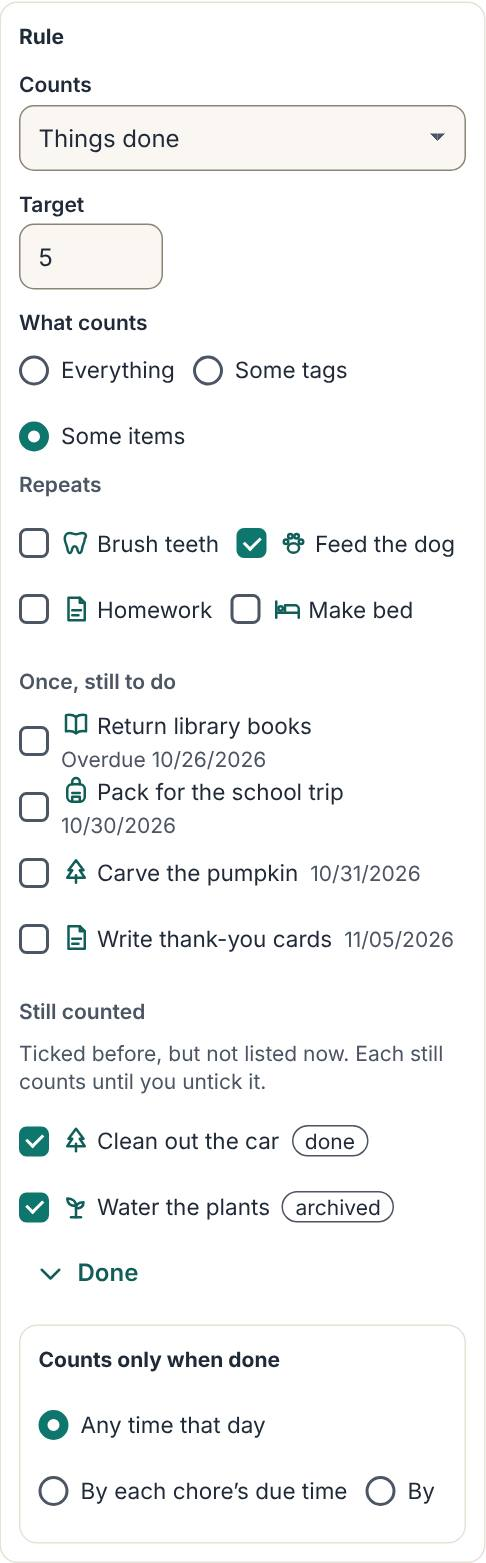
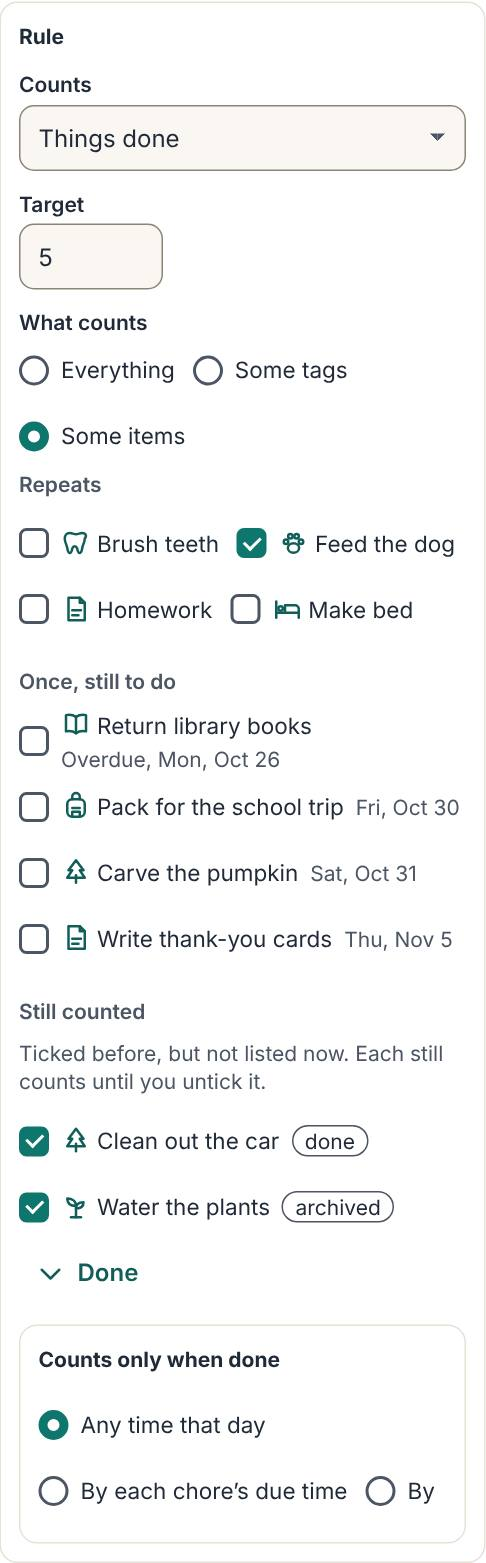
[RWD-21] WP-114: a one-time item's day in the app's style, "Fri, Oct 30"
The owner's choice with the approval, on the planner's recommendation (D-128):
"Fri, Oct 30" and "Overdue, Mon, Oct 26", the year only when it isn't this
year's, rather than mm/dd/yyyy.

Claude-Session: https://claude.ai/code/session_019Ro1JkMZ3zNVvDXiNc1xF9

diff --git a/apps/web/lib/goal-items.ts b/apps/web/lib/goal-items.ts
@@ -2,7 +2,7 @@
 // that can still count, items that repeat first, then one-time items still to do; and every item the
 // goal already counts, kept and flagged with why it isn't listed, so a goal never loses an item.
 // Dates are household-local "YYYY-MM-DD" calendar dates.
-import type { IconName } from '@familywise/ui';
+import { dateWords, type IconName } from '@familywise/ui';
 import type { Section } from './chore-sections';
 
 /** Why a one-time item is over (WP-96's Completed), or archived. */
@@ -37,7 +37,7 @@ export interface ItemsFor {
 
 export interface ItemChoice {
   item: GoalItem;
-  /** A one-time item's day, as the mockup writes it: "10/30/2026", "Overdue 10/26/2026". */
+  /** A one-time item's day, as the app writes it: "Fri, Oct 30", "Overdue, Mon, Oct 26". */
   when?: string;
   /** Still counted only: why it isn't listed ("done", "not for Maya", "after the goal ends"). */
   flags?: string[];
@@ -60,10 +60,13 @@ export function overFrom(
   return null;
 }
 
-/** "2026-10-30" → "10/30/2026" (the owner's choice for the mockup, 27 October). */
-export function shortDate(day: string): string {
-  const [y, m, d] = day.split('-');
-  return `${m}/${d}/${y}`;
+/**
+ * [NFR-16][D-128] A day as the app writes it, "Fri, Oct 30", with its year only when it isn't this
+ * year's ("Tue, Jan 5, 2027"): the owner's choice on 27 October, over mm/dd/yyyy.
+ */
+export function shortDate(day: string, today: string): string {
+  const words = dateWords(day);
+  return day.slice(0, 4) === today.slice(0, 4) ? words.replace(/, \d{4}$/, '') : words;
 }
 
 /**
@@ -97,8 +100,8 @@ const when = (item: GoalItem, today: string) =>
   item.repeats || !item.day
     ? undefined
     : item.day < today
-      ? `Overdue ${shortDate(item.day)}`
-      : shortDate(item.day);
+      ? `Overdue, ${shortDate(item.day, today)}`
+      : shortDate(item.day, today);
 
 /**
  * [RWD-21][D-146] The rule's Some items in three groups: Repeats (by name), Once, still to do (by

diff --git a/e2e/ui/goal-items.spec.ts b/e2e/ui/goal-items.spec.ts
@@ -34,10 +34,10 @@ test('[RWD-21-f] a done and an archived item the goal counts stay ticked under S
     'Homework',
     'Make bed',
     'Once, still to do',
-    'Return library books Overdue 10/26/2026',
-    'Pack for the school trip 10/30/2026',
-    'Carve the pumpkin 10/31/2026',
-    'Write thank-you cards 11/05/2026',
+    'Return library books Overdue, Mon, Oct 26',
+    'Pack for the school trip Fri, Oct 30',
+    'Carve the pumpkin Sat, Oct 31',
+    'Write thank-you cards Thu, Nov 5',
     'Still counted',
     'Clean out the car done',
     'Water the plants archived',
@@ -62,7 +62,7 @@ test('[RWD-21-g] changing Leo to Maya flags Feed the dog "not for Maya", still t
       'Read 20 minutes',
       'Set the table',
       'Once, still to do',
-      'Try on the costume 10/31/2026',
+      'Try on the costume Sat, Oct 31',
       'Still counted',
       'Feed the dog not for Maya',
     ]);
@@ -101,8 +101,8 @@ test('[RWD-21-j] a goal ending Oct 29 lists no chore after it; a ticked one is k
   await page.goto('/dev/goals?form=items-dates');
   await hydrated(page);
   const all = await lines(page);
-  expect(all).not.toContain('Pack for the school trip 10/30/2026');
-  expect(all).toContain('Write thank-you cards 11/05/2026');
+  expect(all).not.toContain('Pack for the school trip Fri, Oct 30');
+  expect(all).toContain('Write thank-you cards Thu, Nov 5');
   await expect(
     page.getByRole('checkbox', { name: 'Carve the pumpkin after the goal ends' }),
   ).toBeChecked();

diff --git a/apps/web/lib/goal-items.test.ts b/apps/web/lib/goal-items.test.ts
@@ -93,10 +93,10 @@ describe('[RWD-21] the goal form’s Some items', () => {
   it('[RWD-21-c] lists a one-time item still to do, Overdue included, with its day', () => {
     const g = itemGroups(ALL, forLeo, []);
     expect(g.once.map((c) => [c.item.title, c.when])).toEqual([
-      ['Return library books', 'Overdue 10/26/2026'],
-      ['Pack for the school trip', '10/30/2026'],
+      ['Return library books', 'Overdue, Mon, Oct 26'],
+      ['Pack for the school trip', 'Fri, Oct 30'],
     ]);
-    expect(shortDate('2027-01-05')).toBe('01/05/2027');
+    expect(shortDate('2027-01-05', TODAY)).toBe('Tue, Jan 5, 2027');
   });
 
   it('[RWD-21-d] lists an item that repeats under Repeats, with no day, before the one-time items', () => {

diff --git a/docs/00-README.md b/docs/00-README.md
@@ -168,7 +168,7 @@ Source of truth for IDs is `04`. CI runs `python3 docs/check_traceability.py --d
 | D-143 | **The e2e reds of 18 to 21 October: where a slow run's time goes (WP-113), 21 October, confirmed by the owner the same day.** Added at the owner's request ("start the e2e fix for #152 to #158 and #146"). Claude Code's choices: (1) **The board's read is made cheaper, not its budget looser.** `board_snapshot()` timed out (8 s) in 7 of the e2e runs 244 to 256 while trivial queries answered; two thirds of its time was `lunch_week()` working out each child's day several times (112 day types for a week of two children, not 14). It now works each out once, with the same answer field for field; on a local copy the snapshot takes 28 to 35 ms, not 66 to 80. This changes production too, for the better. The 3 s and 5 s budgets are unchanged (D-135). `school_days()` (about 13 ms of the rest, under RLS as the board) is left as it is. (2) **The run sees the preview's own way to the database.** A preview-only `GET /api/health/db` times one call to `public.db_probe()`; the run reads it every 15 s, and over 2 s or failing is a bad probe reading, so a test that failed while it was read is infrastructure and re-runs once (as D-129 and D-135's readings). A slow probe of the database says how much of it was the database's own time. (3) **A failed test names what it was still waiting for** (a page load or a save), in its cause; on its own that is no evidence of infrastructure and never re-runs it. (4) **The schedule stays as D-108 set it.** The scheduled runs start 4.5 to 7.5 hours after 07:17 UTC because GitHub queues them late (each run's first job starts seconds after GitHub creates it); the runs started by hand at night were no quieter (run 251 at 03:33 UTC had the snapshot timeouts too), so the late start isn't shown to make the test database busier, and no change is proposed. |
 | D-144 | **Rewards and Members folded, as built (WP-95), 22 October, confirmed by the owner the same day.** Built from the fold audit's Rewards and Members frames the owner approved on 16 October (D-120); Goals' part was done with WP-80 (D-123). Claude Code's choices: (1) a bonus has no name of its own, so **Bonus points**' header names each one on by its kind and points ("7 days in a row +20", "Perfect day +5"), where the frame drew made-up names. (2) **Lately** lists the requests newest settled first (it was newest asked first), so its header's "Last:" is the one settled last, with its day and how many the list holds (up to ten). (3) A member's **Change points** is a fold inside **Points**, folded to its button, as the frame's **Change points** button draws it; after a change, **Points** and **Change points** come back open, for the next one; the form's own heading reads **Add or take away**. (4) After an archive, **Members** comes back with **Archived** open, and **Rewards** with the shop's **Archived** or **Archived bonuses** open, as WP-94 does. (5) Each member's row is the avatar, the name, and its facts under the name, as the frame draws it (the avatar sat on a line of its own on a phone). (6) **Add a reward** moves under the shop's list, as the frame draws it. (7) NFR-18 has no case letters left, so WP-95's test cases are under the requirements whose screens it folds (PTS-01, PTS-03, PTS-04, PTS-05, ACC-04, RWD-09), which join its Reqs line. (8) At the owner's request after the side-by-side ("fix them first", 22 October), the parts around the folds follow the frames too: Rewards' title above the cards and **Asked for** marked in amber while something waits; each request led by the child's avatar, its buttons beside it (stacked at the right, without icons, on a phone); Members' title and **Add a member** above the list; a member's page with **‹ Members** and the name above the form's card; and the shop's archived rewards each with **Put back** (which comes back with **Archived** open). A member's form stays the full form: the frame drew a shortened one. |
 | D-145 | **Today, My tasks and Insights folded, as built (WP-97), 23 October, confirmed by the owner the same day.** Built from the fold audit's Today, My tasks and Insights frames the owner approved on 16 October (D-120). **The owner's choice (23 October, in this item's session):** when a parent marks the last open item of a part of the day done, the part stays open with its count ("6 of 6 done") and folds the next time Today is opened, not under their finger, so **Uncheck** stays where it was. Claude Code's choices, confirmed by the owner with the approval: (1) a part's count is done or skipped; sent back, waiting for a parent and missed are not, and keep the part open. (2) "The next load" is the next time Today is opened, not the page coming back from a save: the part holding the item a parent just changed (marked done, unchecked, skipped, put back, approved, sent back) stays open; **Undo** after **Not actually done** puts items back done, and their parts are folded on the page it comes back to. (3) An open part shows its count on its header ("1 of 4 done"), where the frame drew none on the open After school; a part with everything done has a tick on its header, open or closed. (4) A done part's folded line names its first three items, each name once (Make bed for two children is one name), then "and N more". (5) Today's title is the day in words above the cards (Today, Yesterday, Tomorrow, else the date), and the day's card is headed by the date in full ("Friday, October 16"); **Waiting for you** is marked in amber, as Rewards' **Asked for**. (6) My tasks: its title and reminders line above the cards; **Overdue** and **Today** each a card; **Coming up** folds to "N in the next 7 days · next: name, day time", or "Nothing in the next 7 days". (7) Insights' title, members and ranges above the cards. Its folded findings: **Day by day**, the best and lowest weekday by what was done of what was done or missed ("Best: Sundays, 100% · lowest: Tuesdays, 40%"), the first in the household's week on a tie, "Every day alike" when all are equal; **Missed most**, the one missed most; **By tag**, up to three tags, most done first, then "and N more"; **Checking**, how many a parent checked and sent back while check-offs wait for a parent, else the check-offs and how many a parent unchecked; **History** folded to **Rebuild from history**, open after a rebuild. Opened, **Day by day** is the calendar of days as before (the frame drew a bar chart). (8) Checking's help line now says the approval switch is in Settings, Family options (D-84), not on Home. |
-| D-146 | **A goal's Some items: only what can still count, for the goal's person, and nothing it counts dropped (WP-114), 27 October, from the mockup the owner approved that day, to confirm.** Added at the owner's request, as a bug: the goal form's **Some items** listed every item in the household but the archived, one-time items already done included, whoever they were for. From the planner's recommendation the owner chose: only items for who the goal is for (an item's people): that child, or for the whole family any child who earns rewards; items that repeat, under **Repeats**, then one-time items still to do (WP-96's Scheduled, Overdue included), under **Once, still to do**, each with its day; one-time items done, skipped or missed, and archived items, are left out (one-time items still to do stay, rather than only items that repeat as the owner first suggested, so a one-off push such as "Pack for the school trip" can still be a goal). An item a goal already counts is never dropped: it stays ticked under **Still counted**, flagged with why it isn't listed (done, missed, skipped, archived, "not for Maya", "not for a child"), and is saved unless unticked; the same when who the goal is for changes after items are ticked. The server keeps accepting every item id it accepts now. Within the goal's dates (the planner's addition, Q3 on the mockup): a one-time chore is listed only if its day is within them, since a chore counts on its own day; a one-time task can be done any time and counts on the day it is done (D-31, D-52), so every task still to do is listed with its day, whatever the day; a chore outside the dates after a change is flagged in **Still counted** ("after the goal ends", "before it starts"), never dropped. Proposed by Claude Code for the mockup: the group names and the flags; the owner chose to keep **Still counted** and to write a one-time item's day as mm/dd/yyyy ("10/30/2026", "Overdue 10/26/2026") to save space. A kept item shows why, not its day. |
+| D-146 | **A goal's Some items: only what can still count, for the goal's person, and nothing it counts dropped (WP-114), 27 October, from the mockup the owner approved that day, to confirm.** Added at the owner's request, as a bug: the goal form's **Some items** listed every item in the household but the archived, one-time items already done included, whoever they were for. From the planner's recommendation the owner chose: only items for who the goal is for (an item's people): that child, or for the whole family any child who earns rewards; items that repeat, under **Repeats**, then one-time items still to do (WP-96's Scheduled, Overdue included), under **Once, still to do**, each with its day; one-time items done, skipped or missed, and archived items, are left out (one-time items still to do stay, rather than only items that repeat as the owner first suggested, so a one-off push such as "Pack for the school trip" can still be a goal). An item a goal already counts is never dropped: it stays ticked under **Still counted**, flagged with why it isn't listed (done, missed, skipped, archived, "not for Maya", "not for a child"), and is saved unless unticked; the same when who the goal is for changes after items are ticked. The server keeps accepting every item id it accepts now. Within the goal's dates (the planner's addition, Q3 on the mockup): a one-time chore is listed only if its day is within them, since a chore counts on its own day; a one-time task can be done any time and counts on the day it is done (D-31, D-52), so every task still to do is listed with its day, whatever the day; a chore outside the dates after a change is flagged in **Still counted** ("after the goal ends", "before it starts"), never dropped. Proposed by Claude Code for the mockup: the group names and the flags; the owner chose to keep **Still counted**, and a one-time item's day written as the app writes dates (D-128), "Fri, Oct 30" and "Overdue, Mon, Oct 26", with the year only when it isn't this year's (the owner first chose mm/dd/yyyy to save space, then the app's style on the planner's recommendation, with the approval). A kept item shows why, not its day. |
 
 ## Repo layout
 

diff --git a/docs/05-backlog.md b/docs/05-backlog.md
@@ -1,7 +1,7 @@
 # 05 — Backlog
 
 > Version 0.8 · Status: build baseline · Maintained by Claude Code
-> v0.8.161: WP-114 (a goal's Some items lists only what can still count, for the goal's person) added at the owner's request, as a bug, and done in the same change (RWD-21, D-146), from the mockup the owner approved on 27 October ([Goal Items Mockup](https://claude.ai/artifact/PSkoJydKQT4Gfzv1MUxEaV)): only the goal's person's items (every child's for a family goal) that repeat, then one-time items still to do with their day (mm/dd/yyyy), a one-time chore only within the goal's dates; every item a goal counts kept under Still counted, flagged. Its test cases are RWD-21-a to RWD-21-j.
+> v0.8.161: WP-114 (a goal's Some items lists only what can still count, for the goal's person) added at the owner's request, as a bug, and done in the same change (RWD-21, D-146), from the mockup the owner approved on 27 October ([Goal Items Mockup](https://claude.ai/artifact/PSkoJydKQT4Gfzv1MUxEaV)): only the goal's person's items (every child's for a family goal) that repeat, then one-time items still to do with their day ("Fri, Oct 30"), a one-time chore only within the goal's dates; every item a goal counts kept under Still counted, flagged. Its test cases are RWD-21-a to RWD-21-j.
 > v0.8.160: WP-97 (Today, My tasks and Insights folded) done (NFR-18, CHR-12, CHR-14, RWD-12, D-120, D-145), from the fold audit's frames the owner approved on 16 October, with the owner's answer of 23 October: a part of the day with everything done or skipped folds to its count and first names the next time Today opens, and the part a parent just finished stays open with its count. My tasks' Coming up and Insights' Day by day, Missed most, By tag, Checking and History fold to what they hold. The Done when's preview line follows that answer: the part is open with its count after the tap, and folded on the next load. Its test cases are CHR-12-a to CHR-12-d, CHR-14-a, CHR-14-b, RWD-12-a and RWD-12-b, and those requirements join its Reqs line. D-145 confirmed by the owner in this item's session. That ends the fold audit's work packages (WP-91, WP-93 to WP-97).
 > v0.8.159: WP-95 (Rewards, Goals and Members folded) done (NFR-18, PTS-01, PTS-03, PTS-04, PTS-05, ACC-04, RWD-09, D-120, D-144), from the fold audit's Rewards and Members frames the owner approved on 16 October: the shop's Archived, Bonus points (Add a bonus and Archived bonuses inside), Lately, Members' Archived, a member's Points (Change points inside) and Archive folded, each to what it holds; a save comes back with its fold open; at the owner's request, the page parts around the folds follow the frames too. NFR-18's case letters were used up by WP-94 and WP-96, so its cases are PTS-01-a and -b, PTS-03-a and -b, PTS-04-b, PTS-05-a, ACC-04-a and -b and RWD-09-a, and those requirements join its Reqs line. Its Goals part was done with WP-80 (D-123); RWD-09-a adds the preview test of "needs a look" on Goals' folded History.
 > v0.8.158: WP-113 (the e2e reds of 18 to 21 October) added at the owner's request and done in the same change (DEV-05, NFR-12, MEAL-19, D-143): `meal-groceries.spec.ts` was the spec's own bug, red in every run, and WP-105's merge is right; the board's snapshot timed out under the run because `lunch_week()` worked out each child's day up to eight times, now once, with the same answer (the snapshot 66 to 80 ms → 28 to 35 ms on a local copy); the five one-off reds were saves and page loads the preview never answered within their waits, none of them date-dependent, and a run now sees the preview's own way to the test database and names what a failed test was waiting for. The scheduled runs start late because GitHub queues them late; no change to D-108's schedule. Its test cases are DEV-05-a, DEV-05-b and NFR-12-a to NFR-12-e. D-143 confirmed by the owner in this item's session.
@@ -1991,7 +1991,7 @@ flowchart LR
 - Added at the owner's request on 27 October, as a bug, in the planner session: "When creating a goal and selecting specific things that count towards that goal all chores and tasks are displayed, even ones completed/archived. I'd expect only the active tasks and those that are relevant to the person(s) selected for the goal. I'd argue that only recurring tasks be available for selection." The owner then chose the planner's recommendation: "fix the goal items bug, as recommended". On `main` the goal form's **Some items** leaves out archived items only: it lists one-time items already done or missed (WP-96's Completed), and every item in the household, whoever it is for. An item an existing goal counts that is archived since isn't on the form at all, so saving the goal drops it without a word.
 - **What it lists (D-146):** only items for who the goal is for (an item's people): that child, or for the whole family any child who earns rewards. Items that repeat first, under **Repeats**; then one-time items still to do (WP-96's Scheduled, Overdue included), under **Once, still to do**, each with its day. One-time items done, skipped or missed, and archived items, are left out. Within the goal's dates: a one-time chore only if its day is within them (a chore counts on its day); every one-time task still to do, whatever its day (a task can be done any time and counts the day it is done, D-31, D-52).
 - **Nothing a goal counts is dropped:** an item a goal already counts stays ticked, under **Still counted**, flagged with why it isn't listed (done, missed, skipped, archived, "not for Maya", "not for a child", "after the goal ends", "before it starts"). Changing who the goal is for after ticking items moves the ones that no longer apply there, flagged, still ticked; saving keeps them unless the parent unticks them. An item unticked there stays on the form until the page is left, so a slip can be undone. The server keeps accepting every item id it accepts now. The live summaries and Preview name every item the goal counts, listed or not.
-- **Mockup:** [Goal Items Mockup](https://claude.ai/artifact/PSkoJydKQT4Gfzv1MUxEaV), on the demo family, iPhone at 390 px and the laptop, Day and Evening; approved by the owner on 27 October with three answers: keep **Still counted**; a one-time item's day written mm/dd/yyyy ("10/30/2026", the owner's, to save space); and the goal's dates as the planner recommended (Q3).
+- **Mockup:** [Goal Items Mockup](https://claude.ai/artifact/PSkoJydKQT4Gfzv1MUxEaV), on the demo family, iPhone at 390 px and the laptop, Day and Evening; approved by the owner on 27 October with three answers: keep **Still counted**; a one-time item's day written mm/dd/yyyy to save space (then, with the approval, the app's own style, "Fri, Oct 30", D-128, on the planner's recommendation); and the goal's dates as the planner recommended (Q3).
 - Test cases:
 
 | Case | Test case | Layer |

diff --git a/docs/07-user-guide.md b/docs/07-user-guide.md
@@ -655,11 +655,11 @@ On **Rewards**, a reward someone is saving for says so ("Maya is saving for it")
    - **Points earned**: points from items done.
 5. Choose **What counts**: **Everything**, **Some tags** or **Some items** (each item with its picture). On a goal you've already set, **What counts** shows as one line ("Some items: Homework home"); tap it to change it.
 
-   **Some items** lists only what can still count for who the goal is for: that child's items, or for the whole family every child's. Items that repeat come first, under **Repeats**; then one-time items still to do, under **Once, still to do**, each with its day ("10/30/2026", or "Overdue 10/26/2026"). One-time items already done, skipped or missed, and archived items, aren't listed. A one-time chore counts only on its day, so it's listed only if that day is within the goal's dates; a one-time task can be done any day, so it's always listed.
+   **Some items** lists only what can still count for who the goal is for: that child's items, or for the whole family every child's. Items that repeat come first, under **Repeats**; then one-time items still to do, under **Once, still to do**, each with its day ("Fri, Oct 30", or "Overdue, Mon, Oct 26"). One-time items already done, skipped or missed, and archived items, aren't listed. A one-time chore counts only on its day, so it's listed only if that day is within the goal's dates; a one-time task can be done any day, so it's always listed.
 
    Nothing a goal counts is ever dropped. An item it already counts that isn't listed now (done since, archived, for someone else after you change **Who it's for**, or a chore outside the goal's dates after you change them) stays ticked under **Still counted**, with a note saying why ("done", "archived", "not for Maya", "after the goal ends"). It still counts until you untick it; unticked, it stays on the form until you leave, so you can tick it again.
 
-![Some items for Leo's goal on a phone: under Repeats, Brush teeth, Feed the dog (ticked), Homework and Make bed; under Once, still to do, Return library books "Overdue 10/26/2026", Pack for the school trip "10/30/2026", Carve the pumpkin and Write thank-you cards with their days; under Still counted, "Ticked before, but not listed now. Each still counts until you untick it.", Clean out the car marked "done" and Water the plants marked "archived", both ticked.](guide/img/admin-goal-items-phone.jpg "Some items: what can still count, and what the goal already counts")
+![Some items for Leo's goal on a phone: under Repeats, Brush teeth, Feed the dog (ticked), Homework and Make bed; under Once, still to do, Return library books "Overdue, Mon, Oct 26", Pack for the school trip "Fri, Oct 30", Carve the pumpkin and Write thank-you cards with their days; under Still counted, "Ticked before, but not listed now. Each still counts until you untick it.", Clean out the car marked "done" and Water the plants marked "archived", both ticked.](guide/img/admin-goal-items-phone.jpg "Some items: what can still count, and what the goal already counts")
 6. Optionally, **Add a rule** (up to 5), and choose whether **It's reached when** **Every rule is met** or **Any one rule is met**. With two or more rules, each one can fold to a line such as "Every day it's due: Homework home, by 6:00 pm": tap a line to open that rule, and **Done** to fold it again. Open as many as you like. A rule that still needs something (an item to count, say) stays open and says what.
 
 As you fill it in, the form says what it means for this week, under the rule: "This week Homework home is due 4 days for Maya (Friday, Oct 16 is a teacher planning day), so this week needs 4. A normal week needs 5." The normal week counts only the days off on which one of the rule's items would have been due. It changes as you change the form, worked out the same way as **Preview**.
